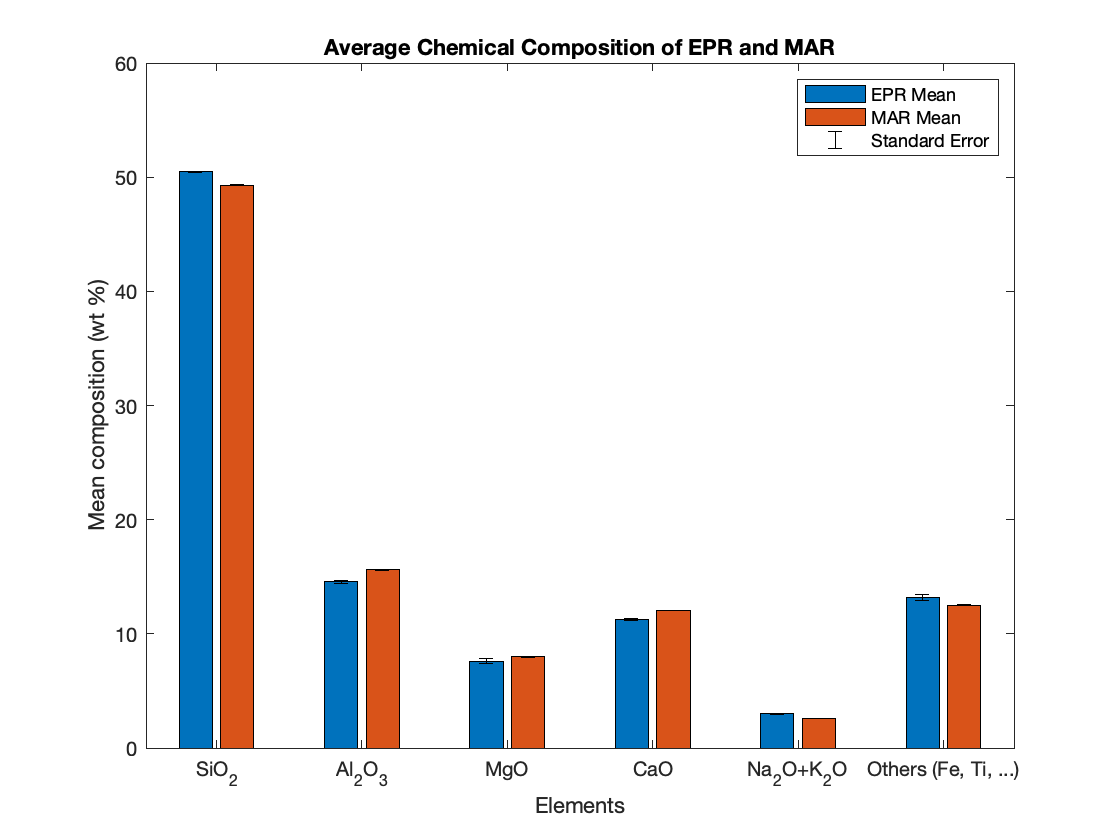
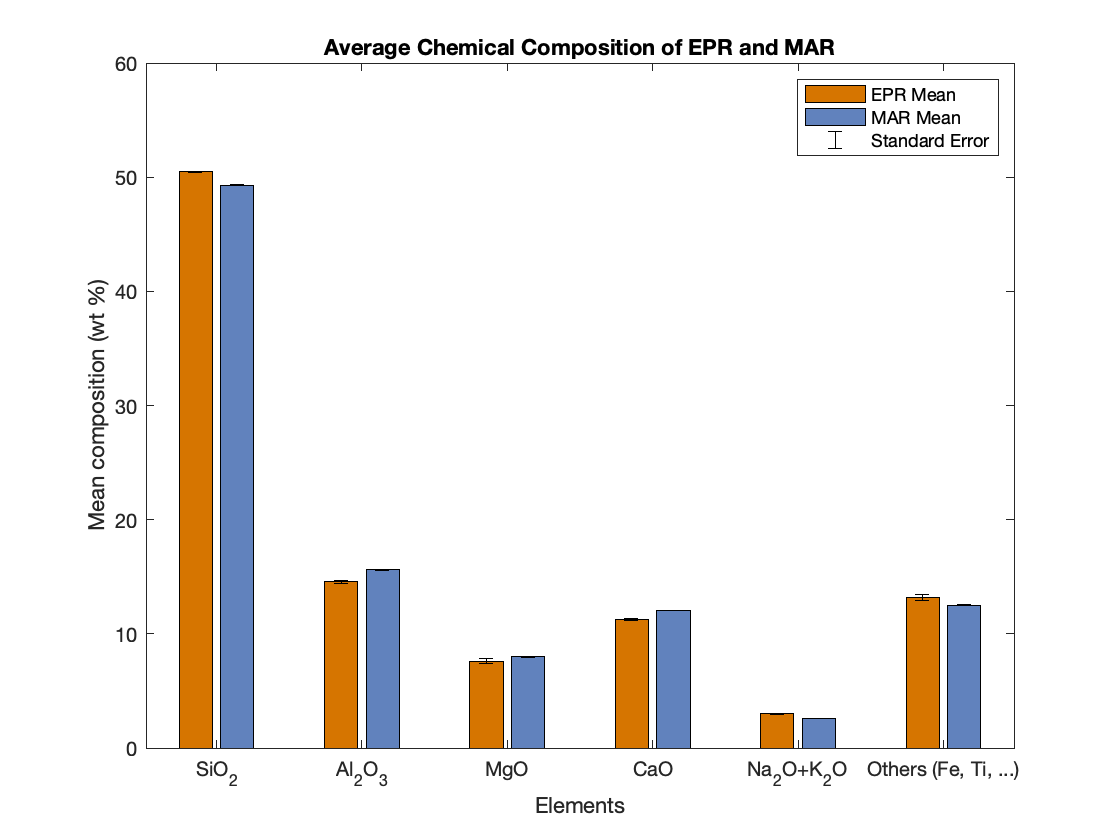
Pretty color

diff --git a/Chem_Data_Code.m b/Chem_Data_Code.m
@@ -30,6 +30,12 @@ load all_data.mat EPR_Chem_extract MAR_Chem_extract
 %       Na2O
 %       K2O
 
+% Color scheme
+ColorEPR = [0.84 0.46 0];
+ColorMAR = [0.38 0.51 0.74];
+ColorBarEPR = [0.61 0.15 0.01];
+ColorBarMAR = [0.28 0.22 0.47];
+
 %% Data check
 
 % Remove obvious data outliers, defined as SiO2 < 1
@@ -194,15 +200,10 @@ bar_labels = {'SiO_2';
 figure
 b = bar([EPR_meanComposition MAR_meanComposition]);
 hold on
-
-% get the x coordinate of the bars
-x = NaN(2,6); % 2 bars, 6 groups
-for i = 1:2
-    x(i,:) = b(i).XEndPoints;
-end
-% plot the errorbars
-errorbar(x',[EPR_meanComposition MAR_meanComposition],[EPR_error MAR_error],'k','linestyle','none')
-
+errorbar(b(1).XEndPoints',EPR_meanComposition,EPR_error,'k','LineStyle','none')
+errorbar(b(2).XEndPoints',MAR_meanComposition,MAR_error,'k','LineStyle','none')
+b(1).FaceColor = ColorEPR;
+b(2).FaceColor = ColorMAR;
 xlabel('Elements')
 xticklabels(bar_labels)
 ylabel('Mean composition (wt %)')
@@ -210,11 +211,6 @@ title('Average Chemical Composition of EPR and MAR')
 legend('EPR Mean', 'MAR Mean', 'Standard Error')
 
 %% Harker Diagrams (with Std)
-
-ColorEPR = [0.84 0.46 0];
-ColorMAR = [0.38 0.51 0.74];
-ColorBarEPR = [0.61 0.15 0.01];
-ColorBarMAR = [0.28 0.22 0.47];
 
 figure
 tiledlayout(5,2,'TileSpacing','compact')
